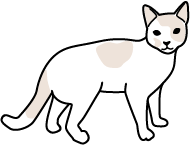
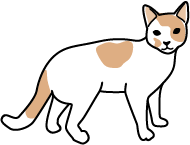
Adding minor css and updated kitty images

diff --git a/src/Synonyms.css b/src/Synonyms.css
@@ -13,8 +13,8 @@
 
 /* kitty theme */
 .Synonyms-li-kitty {
-  background: #f9e5cf;
-  color: #ffa726;
+  background: #fff1e2;
+  color: #f79503;
   display: inline-block;
   margin: 20px 20px 5px 20px;
   padding: 3px 10px;

diff --git a/src/App.css b/src/App.css
@@ -76,7 +76,7 @@
   padding: 20px;
 }
 .App-kitty a {
-  color: #ffa726;
+  color: #f79503;
   text-decoration: none;
 }
 .App-header-kitty,
